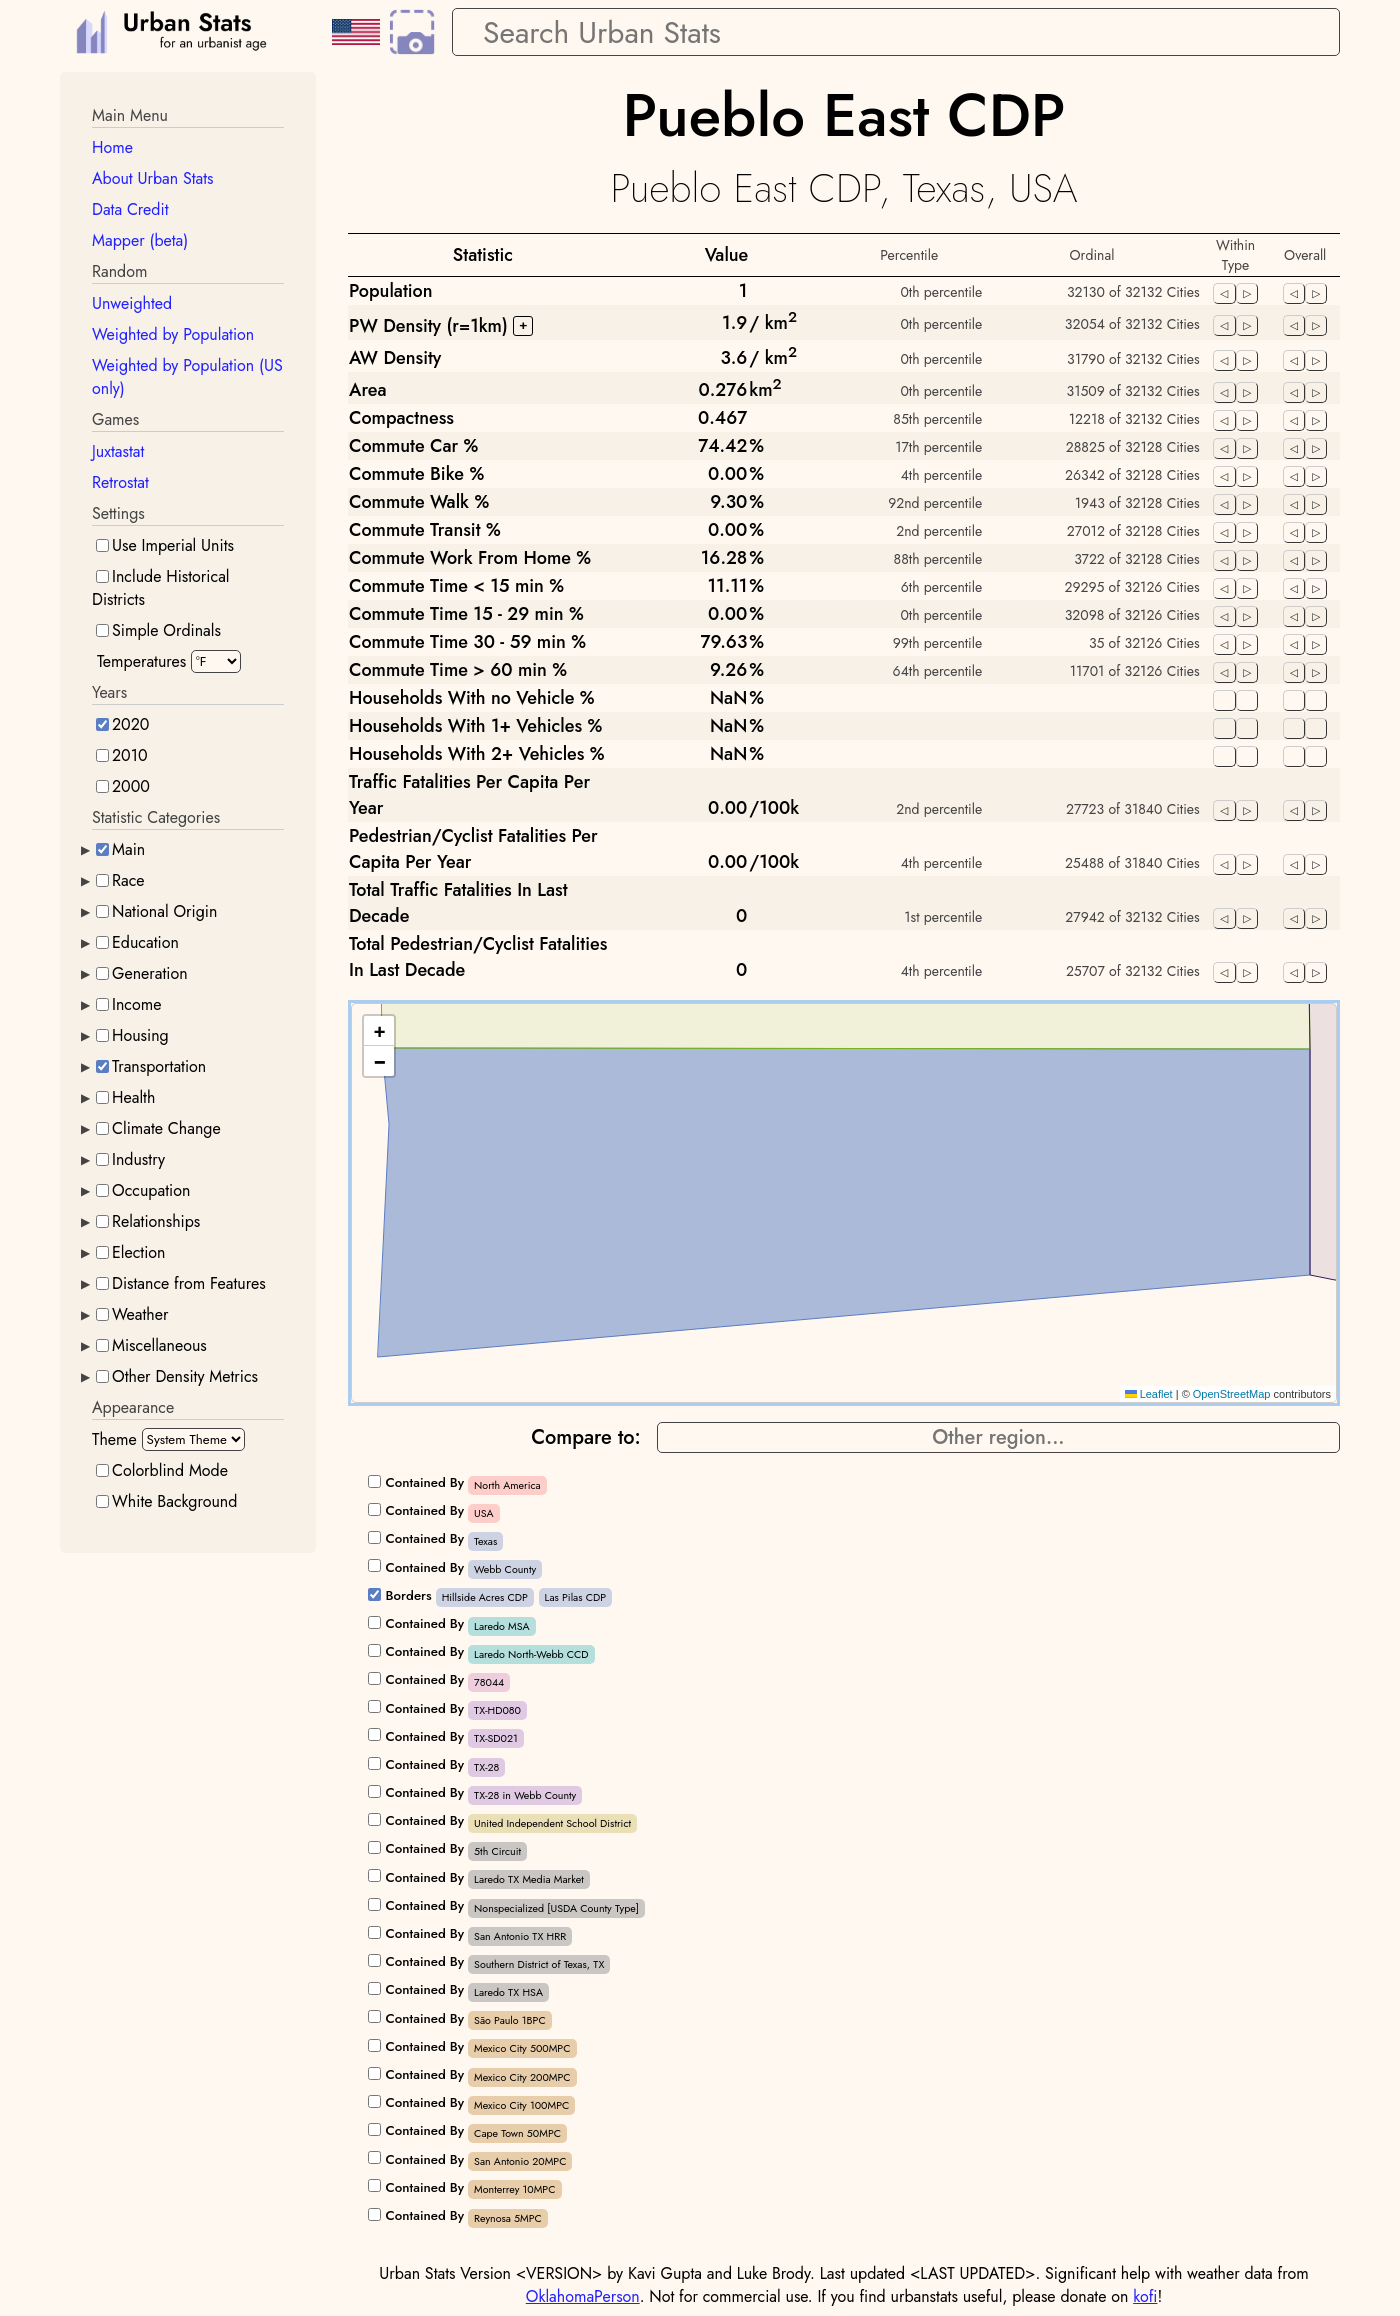
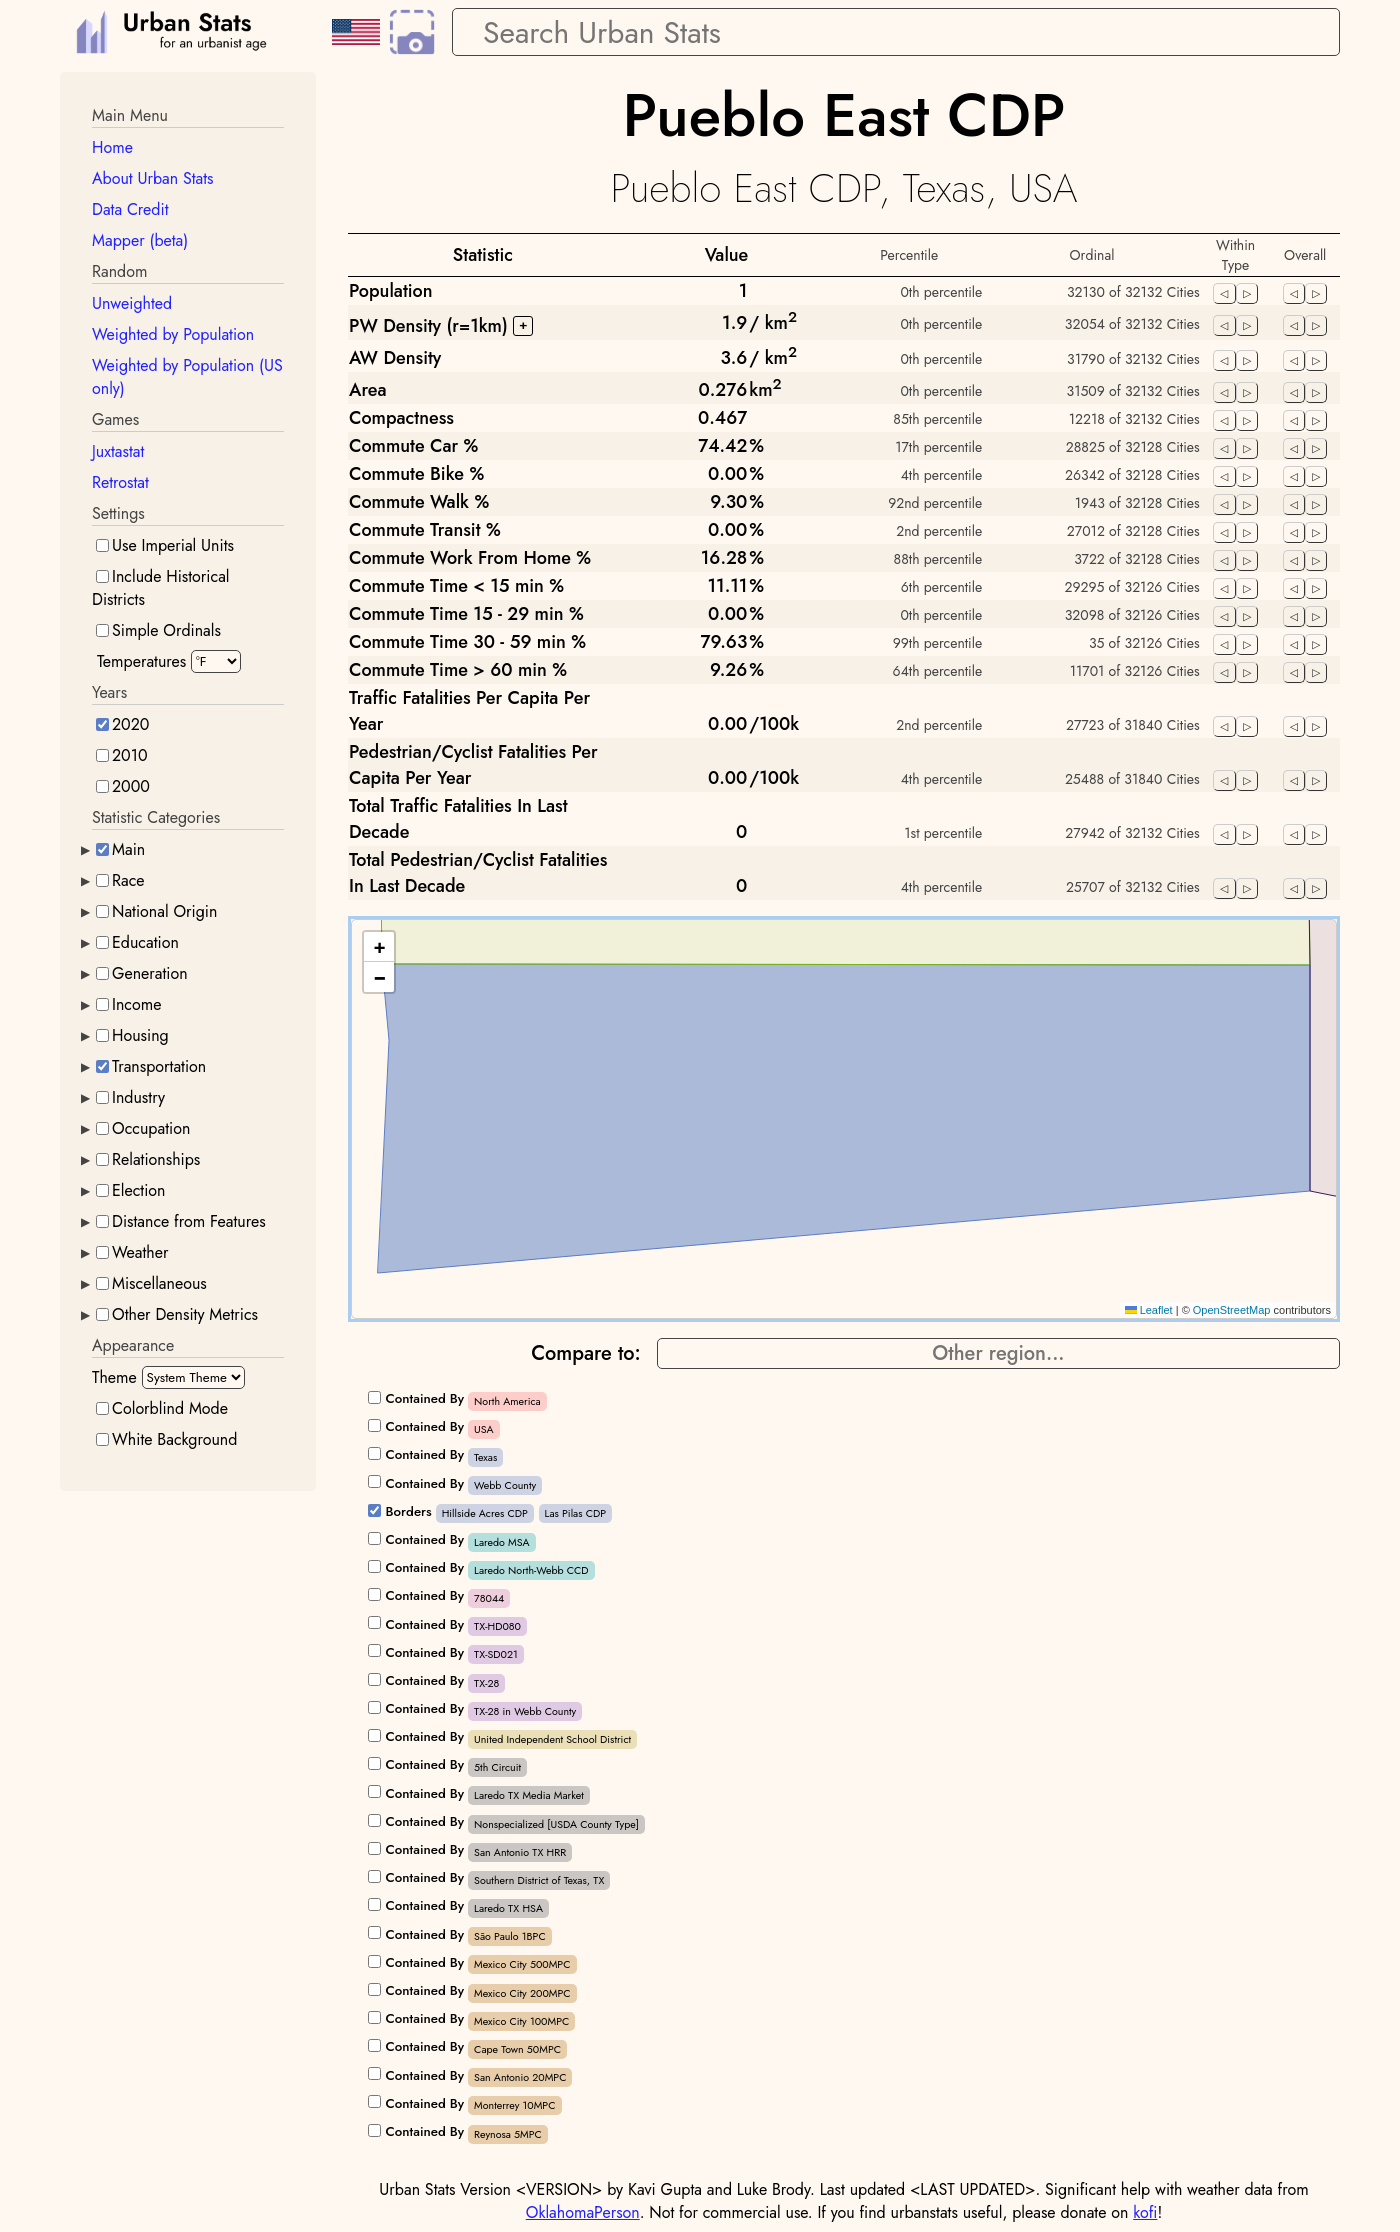
no nans displayed (#628)
Do not display rows containing NaN and do not include these as options
in the sidebar.

Resolves https://github.com/kavigupta/urbanstats/issues/455 by removing
any dependence on whether a an Article is American or not in the
selection of statistics to report, instead inferring this fact from the
pattern of which statistics are not NaN in the table

diff --git a/urbanstats/website_data/create_article_gzips.py b/urbanstats/website_data/create_article_gzips.py
@@ -1,5 +1,6 @@
 import re
 
+import numpy as np
 import tqdm.auto as tqdm
 
 from urbanstats.geometry.relationship import full_relationships, ordering_idx
@@ -9,10 +10,12 @@ from urbanstats.protobuf.utils import write_gzip
 from urbanstats.statistics.collections_list import statistic_collections
 from urbanstats.statistics.output_statistics_metadata import internal_statistic_names
 from urbanstats.website_data.sharding import create_filename
-from urbanstats.website_data.statistic_index_lists import (
-    index_bitvector_for_longname,
-    index_list_for_longname,
-)
+
+
+def isnan(x):
+    if isinstance(x, (float, np.float64, np.float32)):
+        return np.isnan(x)
+    return False
 
 
 def create_article_gzip(
@@ -28,11 +31,9 @@ def create_article_gzip(
 ):
     # pylint: disable=too-many-locals,too-many-arguments
     statistic_names = internal_statistic_names()
-    idxs_by_type = index_list_for_longname(row.longname, row.type)
+    idxs = [i for i, x in enumerate(statistic_names) if not isnan(row[x])]
     data = data_files_pb2.Article()
-    data.statistic_indices_packed = bytes(
-        index_bitvector_for_longname(row.longname, row.type)
-    )
+    data.statistic_indices_packed = bytes(pack_index_vector(idxs))
     data.shortname = row.shortname
     data.longname = row.longname
     data.source = row.source
@@ -41,7 +42,7 @@ def create_article_gzip(
 
     ords, percs = flat_ords.query(long_to_idx[row.longname])
 
-    for idx in idxs_by_type:
+    for idx in idxs:
         stat = statistic_names[idx]
         statrow = data.rows.add()
         statrow.statval = float(row[stat])
@@ -116,3 +117,9 @@ def extra_stats():
     name_to_idx = {name: idx for idx, name in enumerate(internal_statistic_names())}
     extra = {name_to_idx[k]: v for k, v in result.items()}
     return extra
+
+
+def pack_index_vector(idxs):
+    bool_array = np.zeros(max(idxs) + 1, dtype=np.bool_)
+    bool_array[idxs] = True
+    return np.packbits(bool_array, bitorder="little").tolist()
